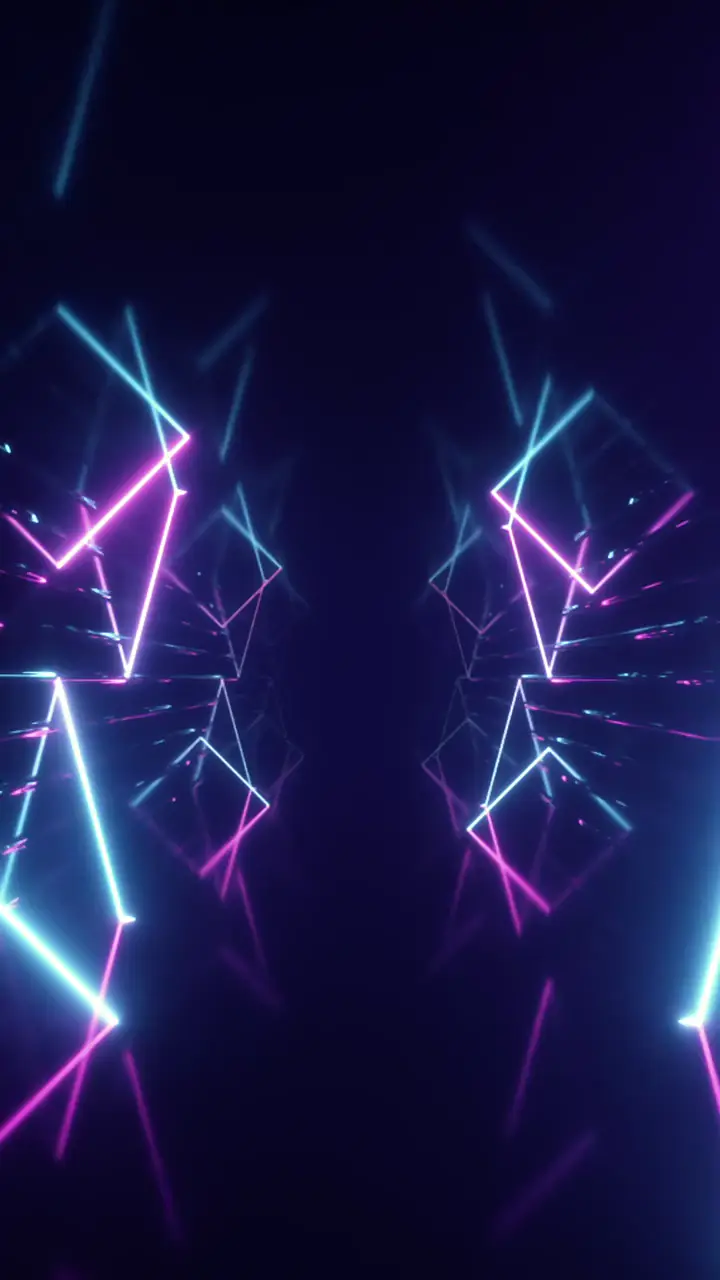
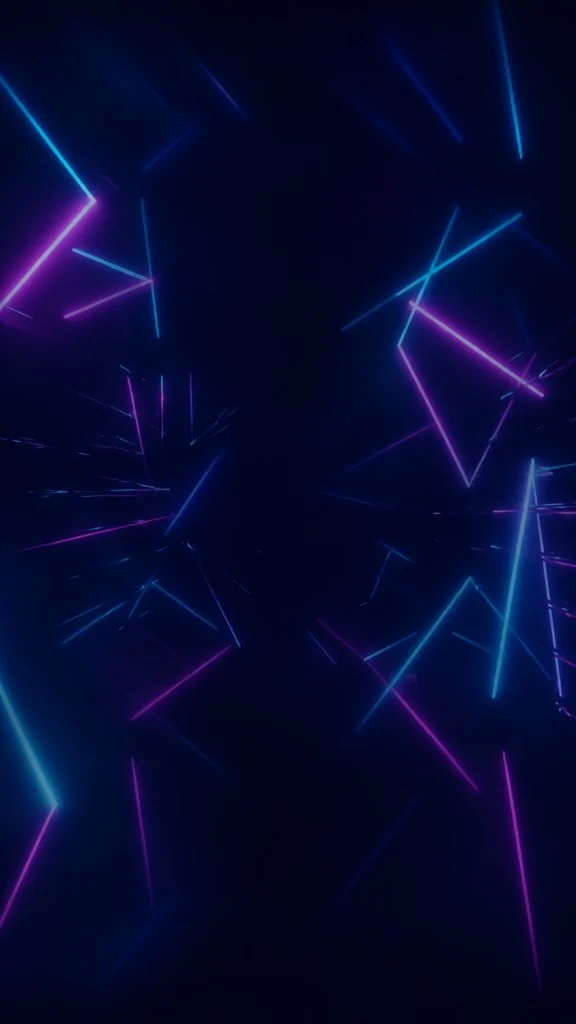
web: set Mi cuenta neon still as the page background
Replace the flat dark cuenta backdrop with the approved cyberpunk geometric still, keyed to the brand --bg veil so UI contrast stays consistent.

diff --git a/apps/web/src/app/globals.css b/apps/web/src/app/globals.css
@@ -6312,13 +6312,11 @@ a.pv-back:hover {
 }
 @media (prefers-reduced-motion:reduce){
   .ck .estado-card.revisando .spin{animation:none;border-top-color:rgba(245,200,76,.6)}
-  .mc-bgvid{display:none}
 }
 
-/* Mi cuenta neon fondo (Jose Klickpin clip) — poster always paints so the
-   pattern stays visible when prefers-reduced-motion hides the video. */
+/* Mi cuenta neon fondo — static cyberpunk still over brand --bg. */
 body:has(.page.mc) .appbg {
-  background: #06070e;
+  background: var(--bg);
 }
 body:has(.page.mc) .appbg-gems,
 body:has(.page.mc) .appbg-sparks,
@@ -6332,27 +6330,17 @@ body:has(.page.mc) .appbg-caps {
   pointer-events: none;
   overflow: hidden;
   background:
-    #06070e
-    url('/mascot/cuenta-fondo-poster.webp')
+    var(--bg)
+    url('/mascot/cuenta-fondo-neon.webp')
     center / cover no-repeat;
-}
-.mc-bgvid {
-  position: absolute;
-  inset: 0;
-  width: 100%;
-  height: 100%;
-  object-fit: cover;
-  object-position: 50% 50%;
-  opacity: 0.92;
-  filter: saturate(1.15);
 }
 .mc-bg::after {
   content: "";
   position: absolute;
   inset: 0;
-  /* Lighter veil than the sample so the neon streaks read like Jose's shot. */
+  /* Soft brand veil so cyan/violet UI still reads over the neon. */
   background:
-    radial-gradient(72% 55% at 50% 28%, rgba(9, 11, 22, 0.08), rgba(9, 11, 22, 0.42) 80%),
-    linear-gradient(180deg, rgba(9, 11, 22, 0.18) 0%, rgba(9, 11, 22, 0.36) 55%, rgba(9, 11, 22, 0.62) 100%);
+    radial-gradient(70% 52% at 50% 30%, rgba(11, 13, 24, 0.12), rgba(11, 13, 24, 0.48) 78%),
+    linear-gradient(180deg, rgba(11, 13, 24, 0.22) 0%, rgba(11, 13, 24, 0.4) 55%, rgba(11, 13, 24, 0.72) 100%);
 }
 

diff --git a/apps/web/src/app/cuenta/cuenta-bg.tsx b/apps/web/src/app/cuenta/cuenta-bg.tsx
@@ -4,32 +4,15 @@ import { useEffect, useState } from 'react';
 import { createPortal } from 'react-dom';
 
 /**
- * Full-bleed neon background for Mi cuenta / Level Pass — Jose's Klickpin
- * clip from the approved redesign. Portaled to `document.body` so it sits
- * with AppBg as a true viewport-fixed layer (not trapped inside `.page.mc`'s
- * stacking context). Poster CSS on `.mc-bg` keeps the pattern visible when
- * reduced-motion hides the video.
+ * Full-bleed neon fondo for Mi cuenta / Level Pass. Portaled to
+ * `document.body` so it sits with AppBg as a viewport-fixed layer.
+ * Static image (not the old Klickpin video) so the pattern matches the
+ * approved neon still and stays visible under reduced-motion.
  */
 export function CuentaBg() {
   const [mounted, setMounted] = useState(false);
   useEffect(() => setMounted(true), []);
   if (!mounted) return null;
 
-  return createPortal(
-    <div className="mc-bg" aria-hidden="true">
-      <video
-        className="mc-bgvid"
-        autoPlay
-        muted
-        loop
-        playsInline
-        preload="auto"
-        poster="/mascot/cuenta-fondo-poster.webp"
-        tabIndex={-1}
-      >
-        <source src="/mascot/cuenta-fondo.mp4" type="video/mp4" />
-      </video>
-    </div>,
-    document.body,
-  );
+  return createPortal(<div className="mc-bg" aria-hidden="true" />, document.body);
 }
